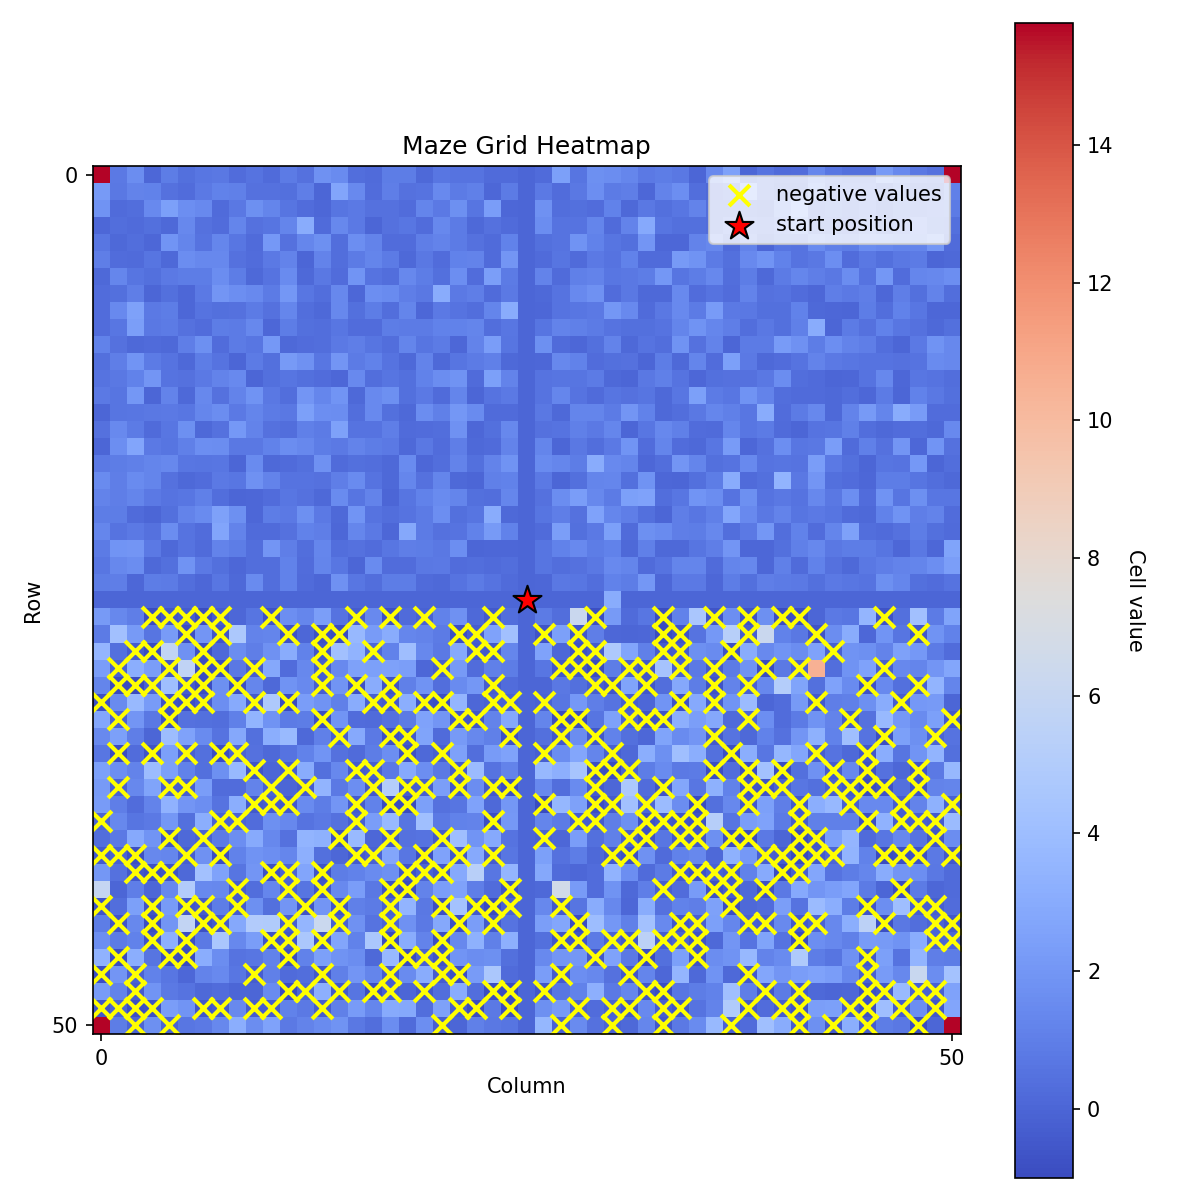
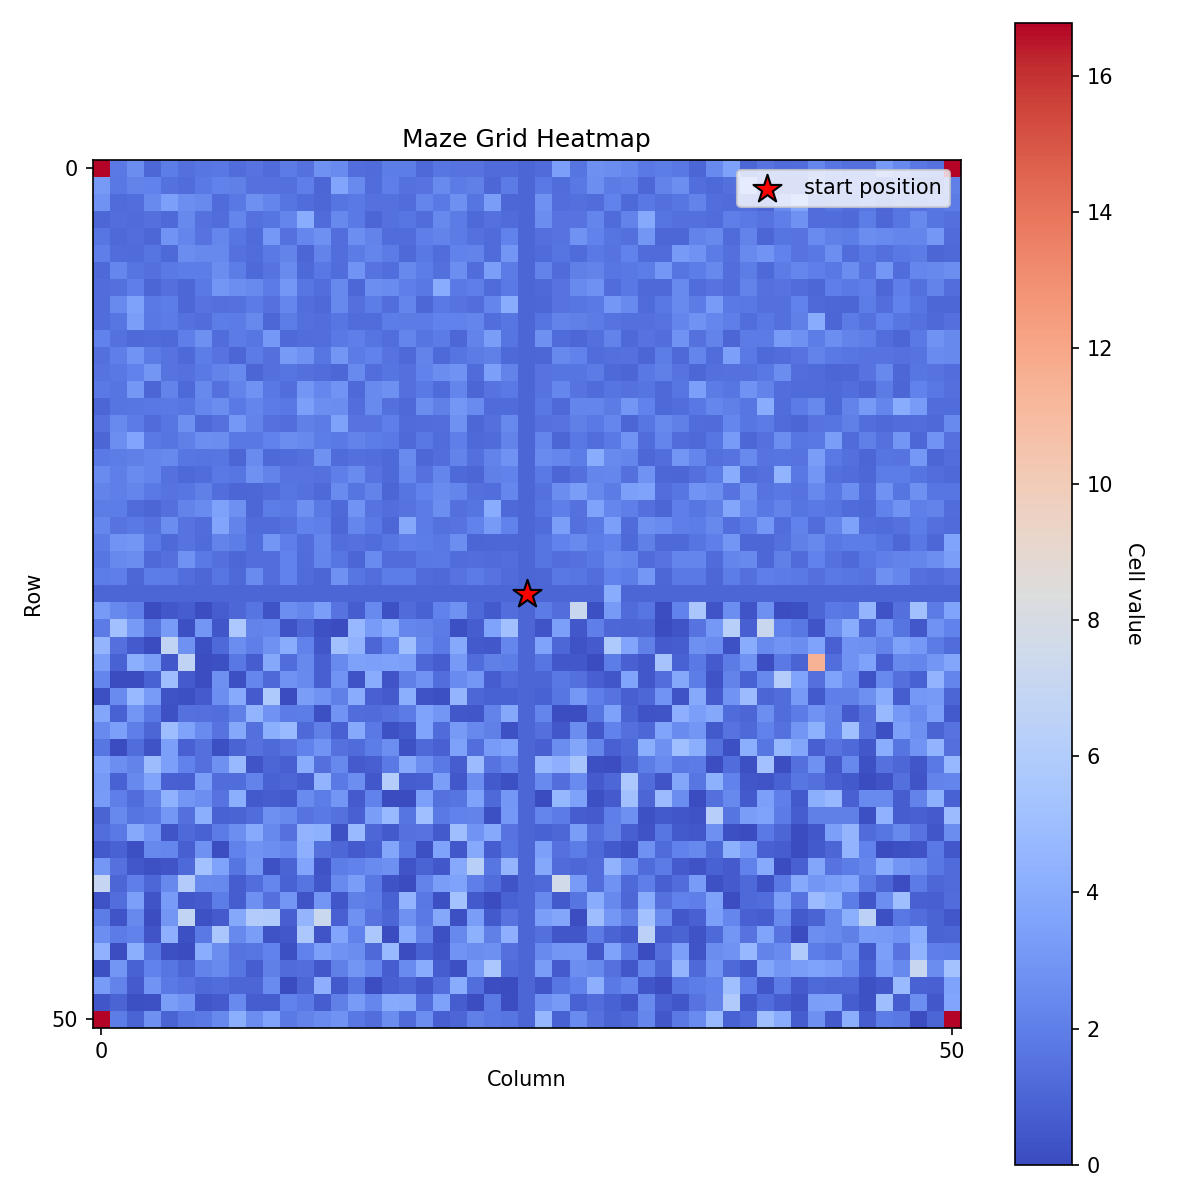
plot path

diff --git a/scripts/visualize_maze.py b/scripts/visualize_maze.py
@@ -6,13 +6,13 @@ import matplotlib.pyplot as plt
 import numpy as np
 
 from src.maze_rl.config import settings
-from src.maze_rl.env import load_grid_from_csv
+from src.maze_rl.env import Coordinate, load_grid_from_csv
 
 
 def visualize_maze(save_path: Path) -> None:
     """Render a heatmap of the maze grid with boundary and start annotations."""
 
-    grid_path = Path(settings.maze_path) / "maze.csv"
+    grid_path = Path(settings.maze_path) / "maze_plus_1.csv"
     grid = load_grid_from_csv(grid_path)
     fig, ax = plt.subplots(figsize=(8, 8))
     heatmap = ax.imshow(grid, cmap="coolwarm", origin="upper")
@@ -60,6 +60,89 @@ def visualize_maze(save_path: Path) -> None:
     save_path.parent.mkdir(parents=True, exist_ok=True)
     plt.savefig(save_path, dpi=150)
     print(f"Saved maze visualization to {save_path}")
+
+
+def plot_path_on_maze(path: list[Coordinate], save_path: Path) -> None:
+    """Render a heatmap of the maze grid with the agent's path overlaid."""
+    
+    grid_path = Path(settings.maze_path) / "maze_plus_1.csv"
+    grid = load_grid_from_csv(grid_path)
+    fig, ax = plt.subplots(figsize=(8, 8))
+    heatmap = ax.imshow(grid, cmap="coolwarm", origin="upper")
+    cbar = fig.colorbar(heatmap, ax=ax)
+    cbar.set_label("Cell value", rotation=270, labelpad=15)
+    
+    # Mark cells with negative values
+    negative_mask = grid < 0
+    negative_rows, negative_cols = np.where(negative_mask)
+    if len(negative_rows) > 0:
+        ax.scatter(
+            negative_cols,
+            negative_rows,
+            marker="x",
+            color="yellow",
+            s=100,
+            linewidths=2,
+            zorder=2,
+            label="negative values",
+        )
+    
+    # Plot the path as a polyline
+    if len(path) > 0:
+        path_cols = [col for row, col in path]
+        path_rows = [row for row, col in path]
+        ax.plot(
+            path_cols,
+            path_rows,
+            color="lime",
+            linewidth=2,
+            marker="o",
+            markersize=4,
+            zorder=3,
+            label="agent path",
+        )
+        
+        # Mark start position
+        start_row, start_col = path[0]
+        ax.scatter(
+            start_col,
+            start_row,
+            marker="*",
+            color="red",
+            edgecolor="black",
+            s=200,
+            zorder=4,
+            label="start position",
+        )
+        
+        # Mark end position
+        if len(path) > 1:
+            end_row, end_col = path[-1]
+            ax.scatter(
+                end_col,
+                end_row,
+                marker="s",
+                color="blue",
+                edgecolor="black",
+                s=200,
+                zorder=4,
+                label="end position",
+            )
+    
+    ax.set_title("Maze Grid Heatmap with Agent Path")
+    ax.set_xlabel("Column")
+    ax.set_ylabel("Row")
+    ax.set_xticks([0, grid.shape[1] - 1])
+    ax.set_yticks([0, grid.shape[0] - 1])
+    ax.set_xlim(-0.5, grid.shape[1] - 0.5)
+    ax.set_ylim(-0.5, grid.shape[0] - 0.5)
+    ax.invert_yaxis()
+    ax.legend(loc="upper right")
+    plt.tight_layout()
+    
+    save_path.parent.mkdir(parents=True, exist_ok=True)
+    plt.savefig(save_path, dpi=150)
+    print(f"Saved path visualization to {save_path}")
 
 
 if __name__ == "__main__":

diff --git a/scripts/train_qlearning.py b/scripts/train_qlearning.py
@@ -9,6 +9,7 @@ import numpy as np
 from src.maze_rl.agent import QLearningAgent
 from src.maze_rl.config import settings
 from src.maze_rl.env import Coordinate, AugmentedState, MazeEnv
+from scripts.visualize_maze import plot_path_on_maze
 
 
 
@@ -102,6 +103,20 @@ def main() -> None:
         f"Training complete ({episodes_completed} episodes). Best score={best_score:.4f} "
         f"visited {len(path_cells)} cells: {path_cells} "
         f"(saved to {best_model_path})"
+    )
+    
+    # Run one final greedy evaluation episode and plot the path
+    env.reset()
+    state = env.get_state()
+    while not env.done:
+        action = agent.choose_action(state, training=False)
+        state, _, _, _ = env.step(action)
+    eval_path = env.path
+    
+    # Plot the evaluation path
+    plot_path_on_maze(
+        path=eval_path,
+        save_path=settings.output_dir / "last_eval_path.png"
     )
 
 

diff --git a/src/maze_rl/config.py b/src/maze_rl/config.py
@@ -9,7 +9,7 @@ class Settings(BaseSettings):
     maze_path: Path
     score_exponent: float = 1.0
     step_exponent: float = 1.0
-    num_episodes: int = 2500
+    num_episodes: int = 25000
     learning_rate: float = 0.3
     discount_factor: float = 0.99
     epsilon_start: float = 1.0
